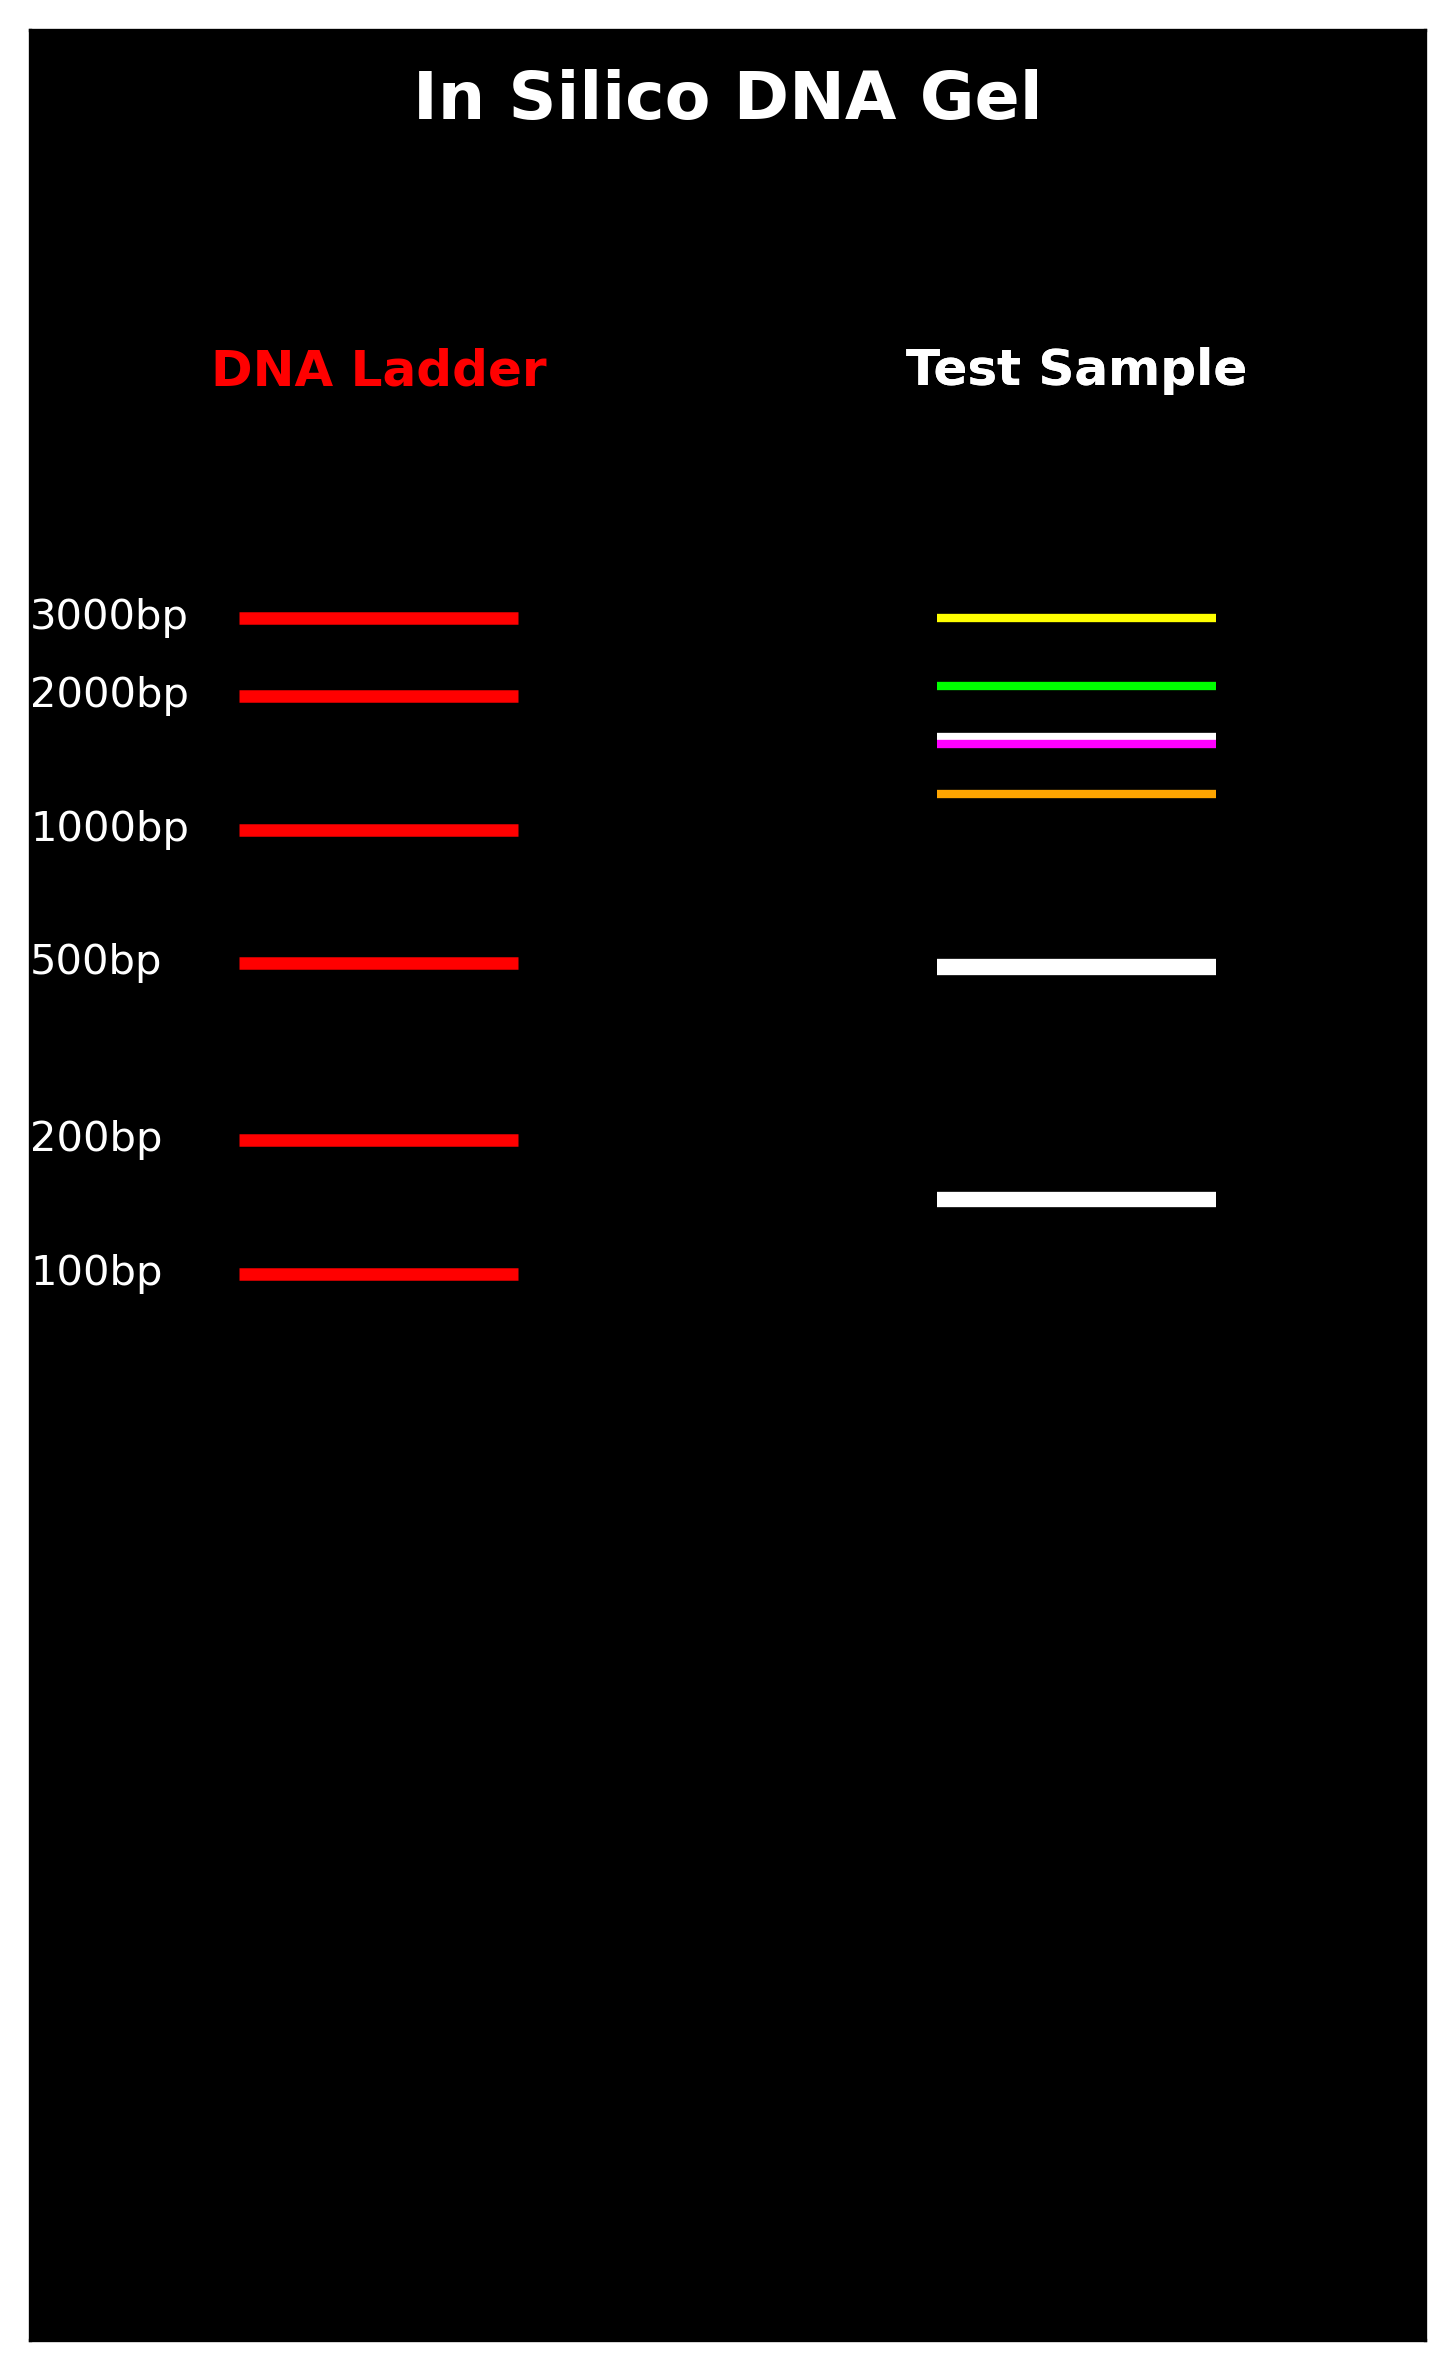
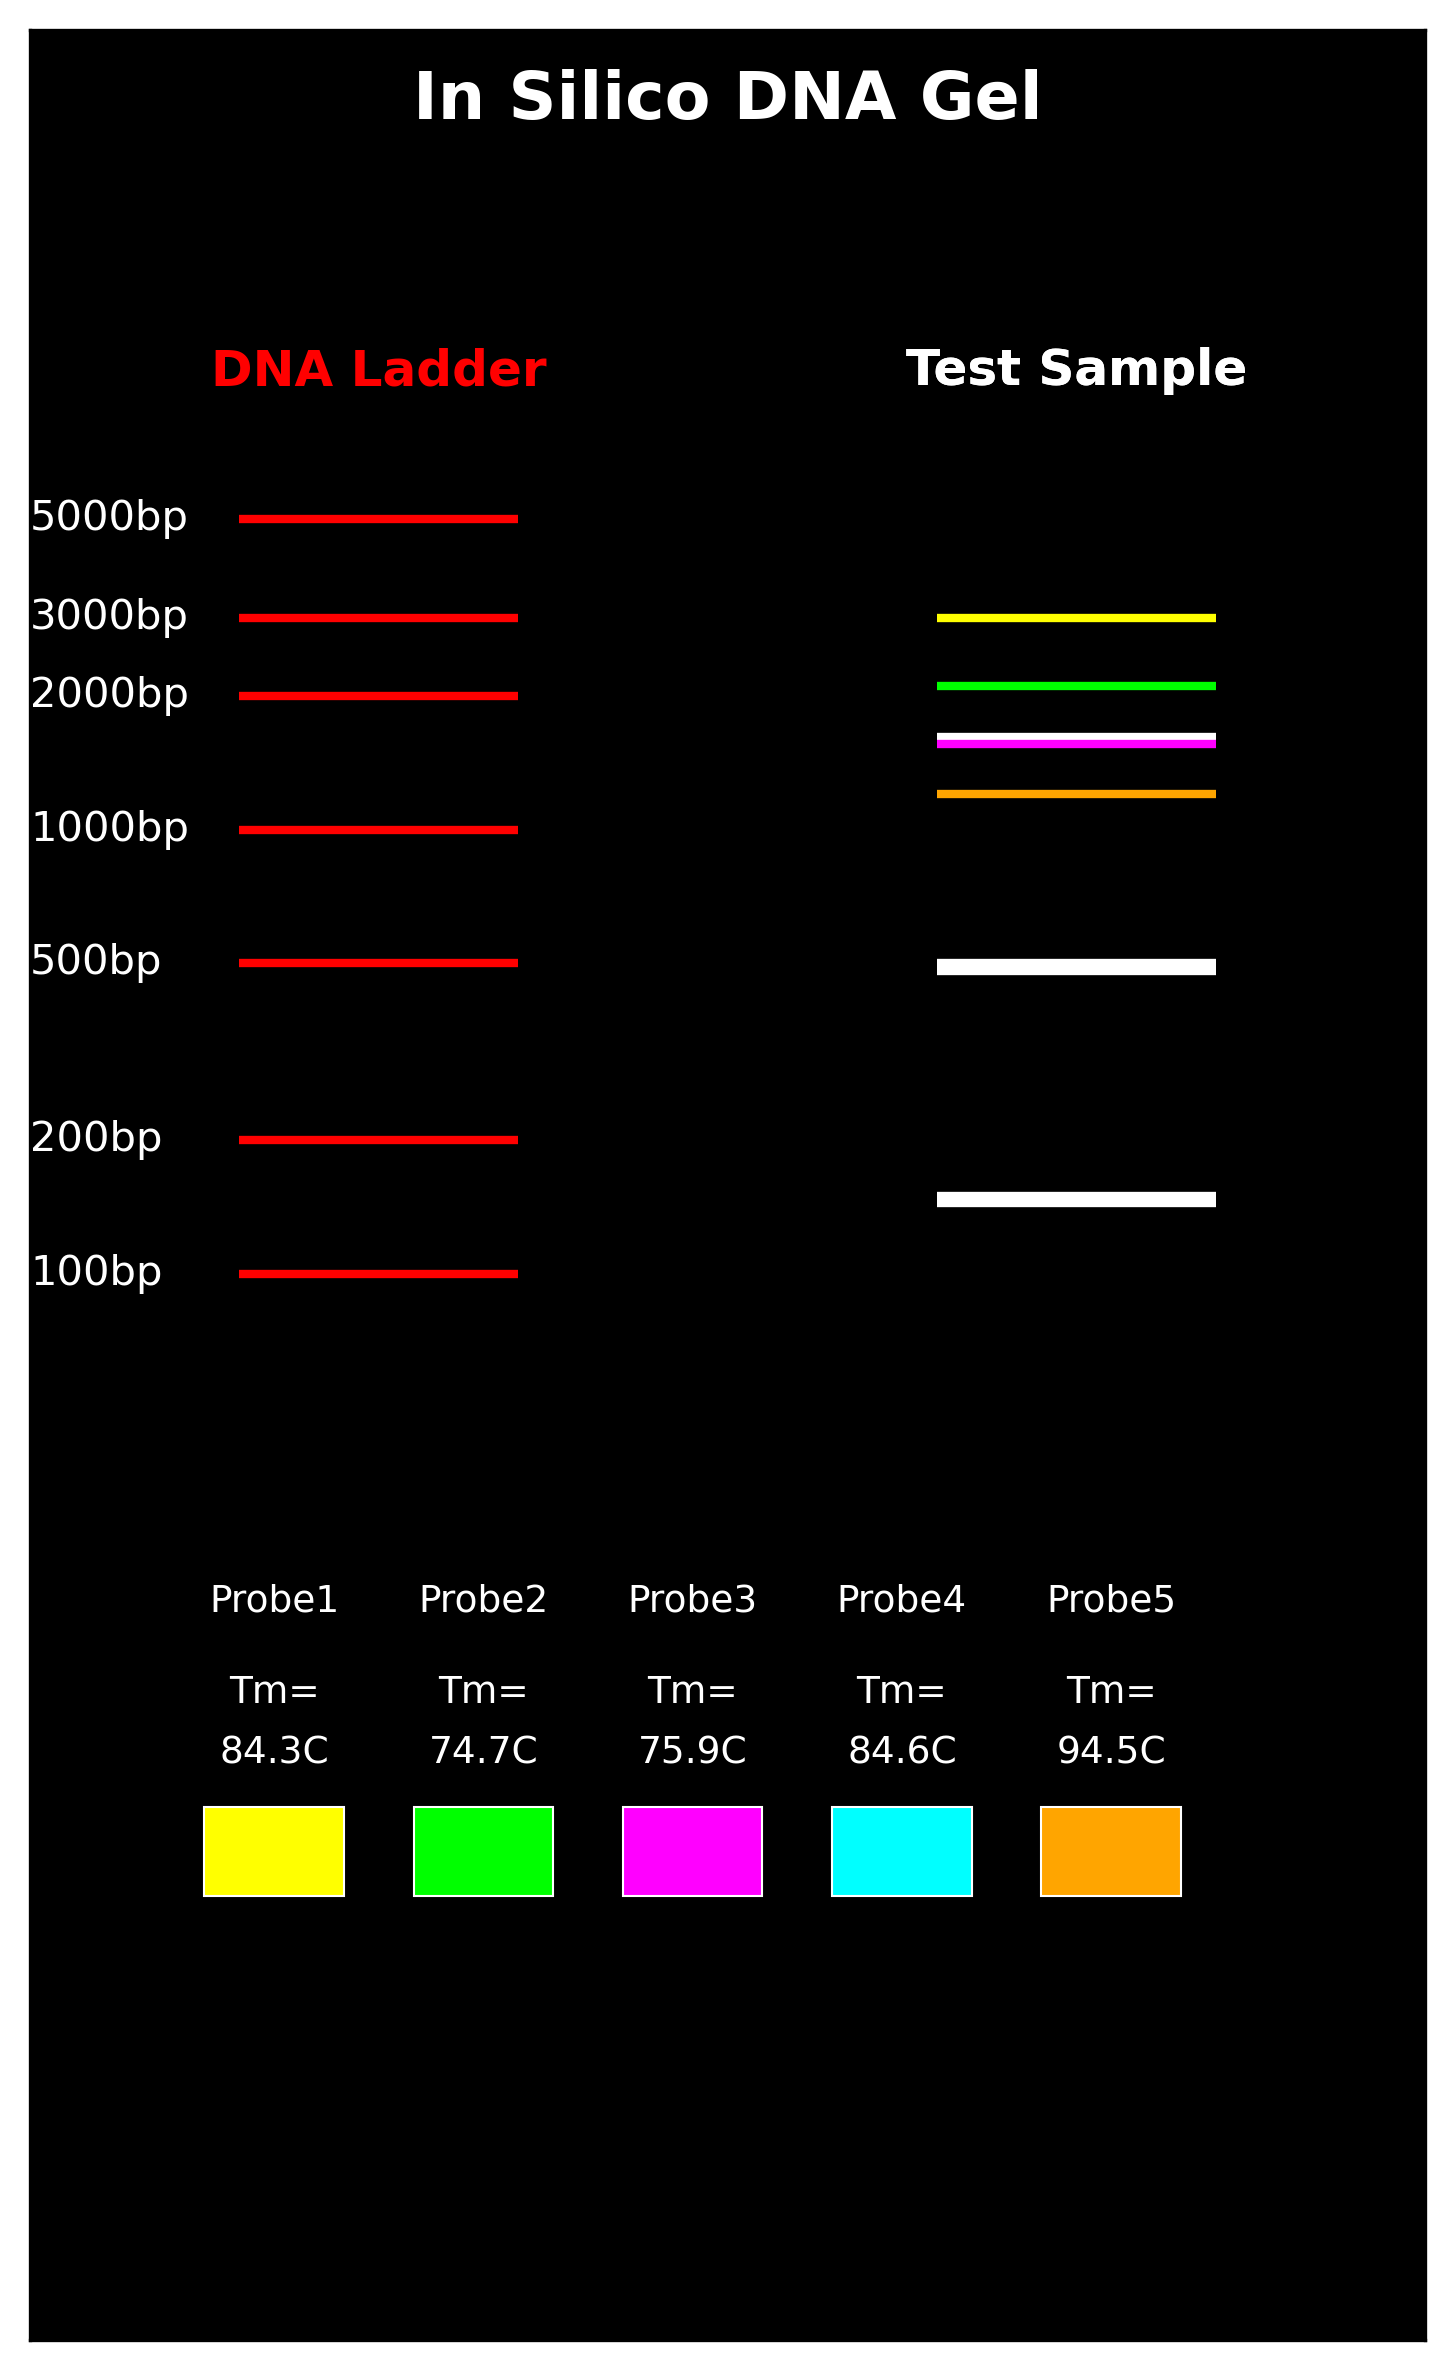
updated

diff --git a/Pauline_InSilicoGel/Matplotlib_southernblot_seq.frag_dicts+probes_f.py b/Pauline_InSilicoGel/Matplotlib_southernblot_seq.frag_dicts+probes_f.py
@@ -8,7 +8,7 @@ fragment_sizes = {"Seq1": ["ATGCGT" * 500 , "GATTACA" * 300 , "TTAGGC" * 270 , "
                   "Seq2": ["GCGT" * 300 , "TTGAC" * 312 , "ATGC" * 120 , "CG" * 75]}
 
 ladder = {'100bp': 100, '200bp': 200, '500bp': 500,
-          '1000bp': 1000, '2000bp': 2000, '3000bp': 3000}
+          '1000bp': 1000, '2000bp': 2000, '3000bp': 3000, '5000bp' : 5000}
 
 probes = {"Probe1" : "ATGCGT"*100,
           "Probe2" : "GATTACA"*50 , 
@@ -85,7 +85,7 @@ print("HTML file and legend for probes in gel 'probe_matches_d.html' created wit
 def plot_ladder(ax, ladder, x_pos, color ="red"):
     for name, size in ladder.items():
         y = migration_distance(size)
-        ax.hlines(y, x_pos-0.2, x_pos+0.2, color=color, linewidth=3)
+        ax.hlines(y, x_pos-0.2, x_pos+0.2, color=color, linewidth=2)
         ax.text(x_pos-0.5, y, name, color='white', va='center')
     ax.text(x_pos, +20, "DNA Ladder", color=color, ha='center', fontsize=12, fontweight='bold')
 
@@ -153,6 +153,34 @@ plot_sample_lane(ax, fragment_sizes, probes, probe_colors, lane_x)
 #Title of plot 
 title_x = (ladder_x + lane_x) / 2
 ax.text(title_x, 5, "In Silico DNA Gel", color='white', ha='center', fontsize=16, fontweight='bold')
+
+#Probe color legend to be put on gel image 
+legend_y = 100    # move legend higher
+x_start = 0.25
+x_spacing = 0.3  # more spacing between entries
+
+for i, (probe_name, probe_seq) in enumerate(probes.items()):
+    color = probe_colors[i % len(probe_colors)]
+    x_pos = x_start + i * x_spacing
+
+     # Draw the color block
+    block_width = 0.20
+    block_height = 5
+    ax.add_patch(plt.Rectangle((x_pos, legend_y), block_width, block_height, color=color, ec='white', lw=0.5))
+
+    #calculating Tm for probes 
+    tm = calculate_tm(probe_seq)
+
+    # Add probe label UNDER the block (centered)
+    ax.text(
+        x_pos + block_width / 2, # center text under the block
+        legend_y -2, # vertical offset (a few units below the block)
+        f"{probe_name}\n\n\nTm=\n\n{tm}C",
+        color='white',
+        fontsize=9,
+        ha='center',  # center align horizontally
+        va='bottom', # align text baseline with this y-position
+        linespacing=0.8)
 
 #Saving plot
 plt.savefig("in_silico_test_gel_fixed_e.png", dpi=300, bbox_inches='tight', facecolor=fig.get_facecolor())
